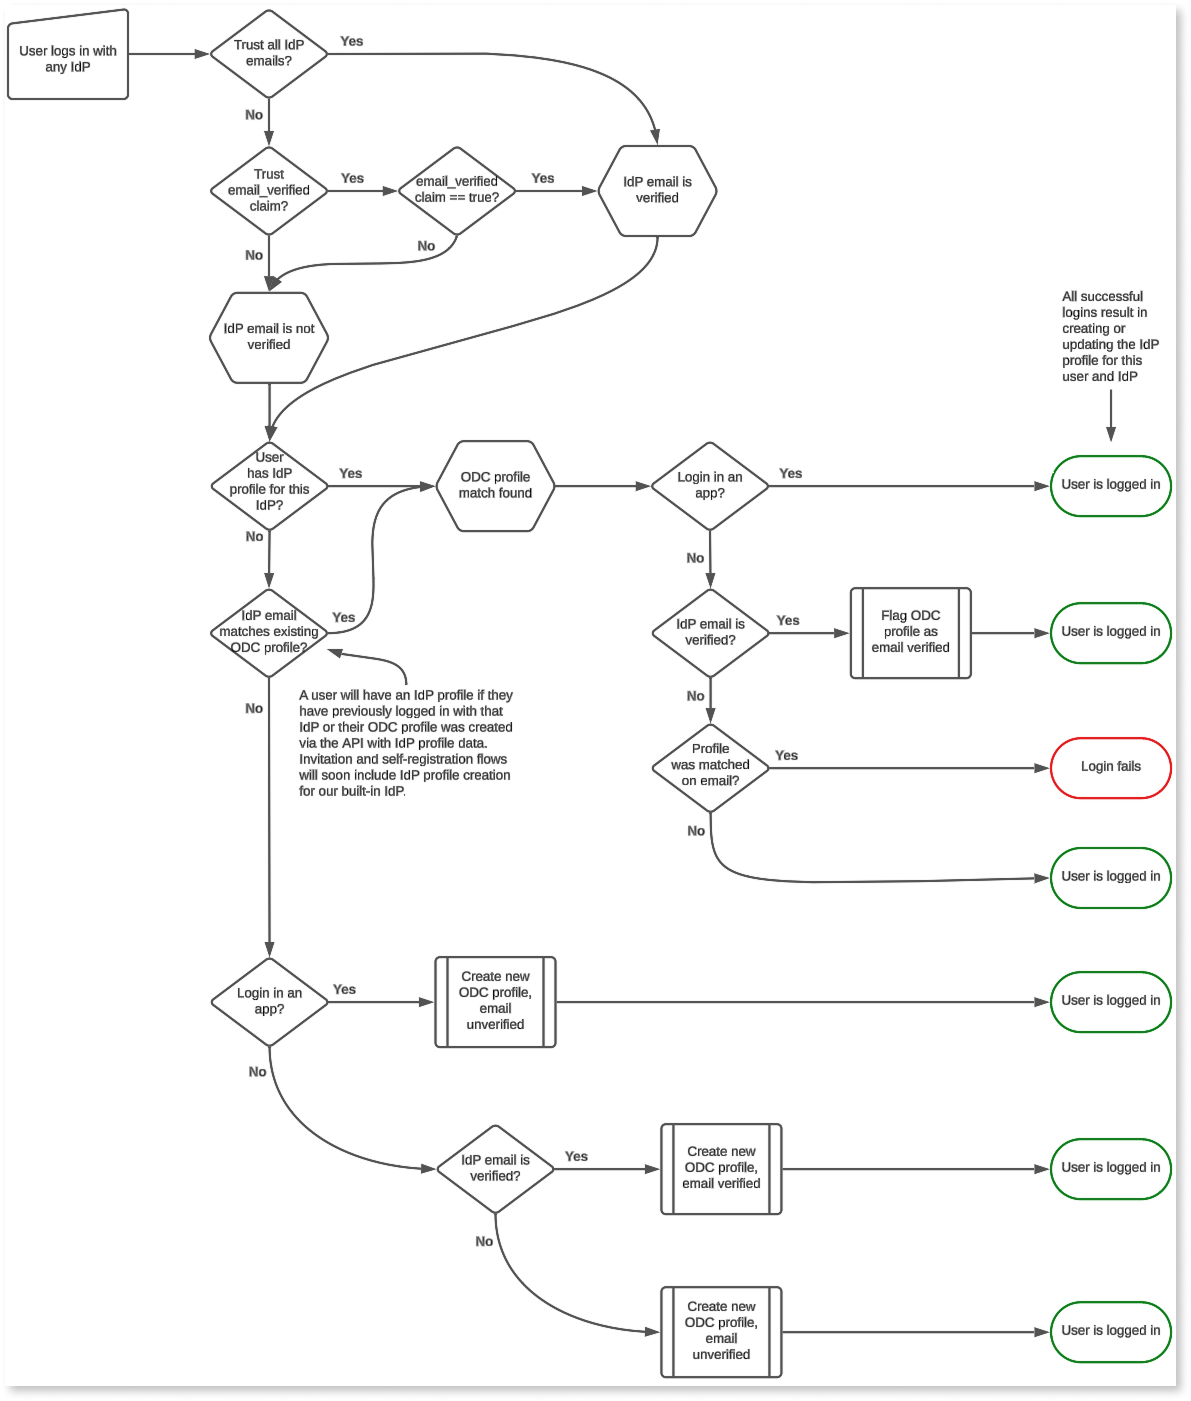
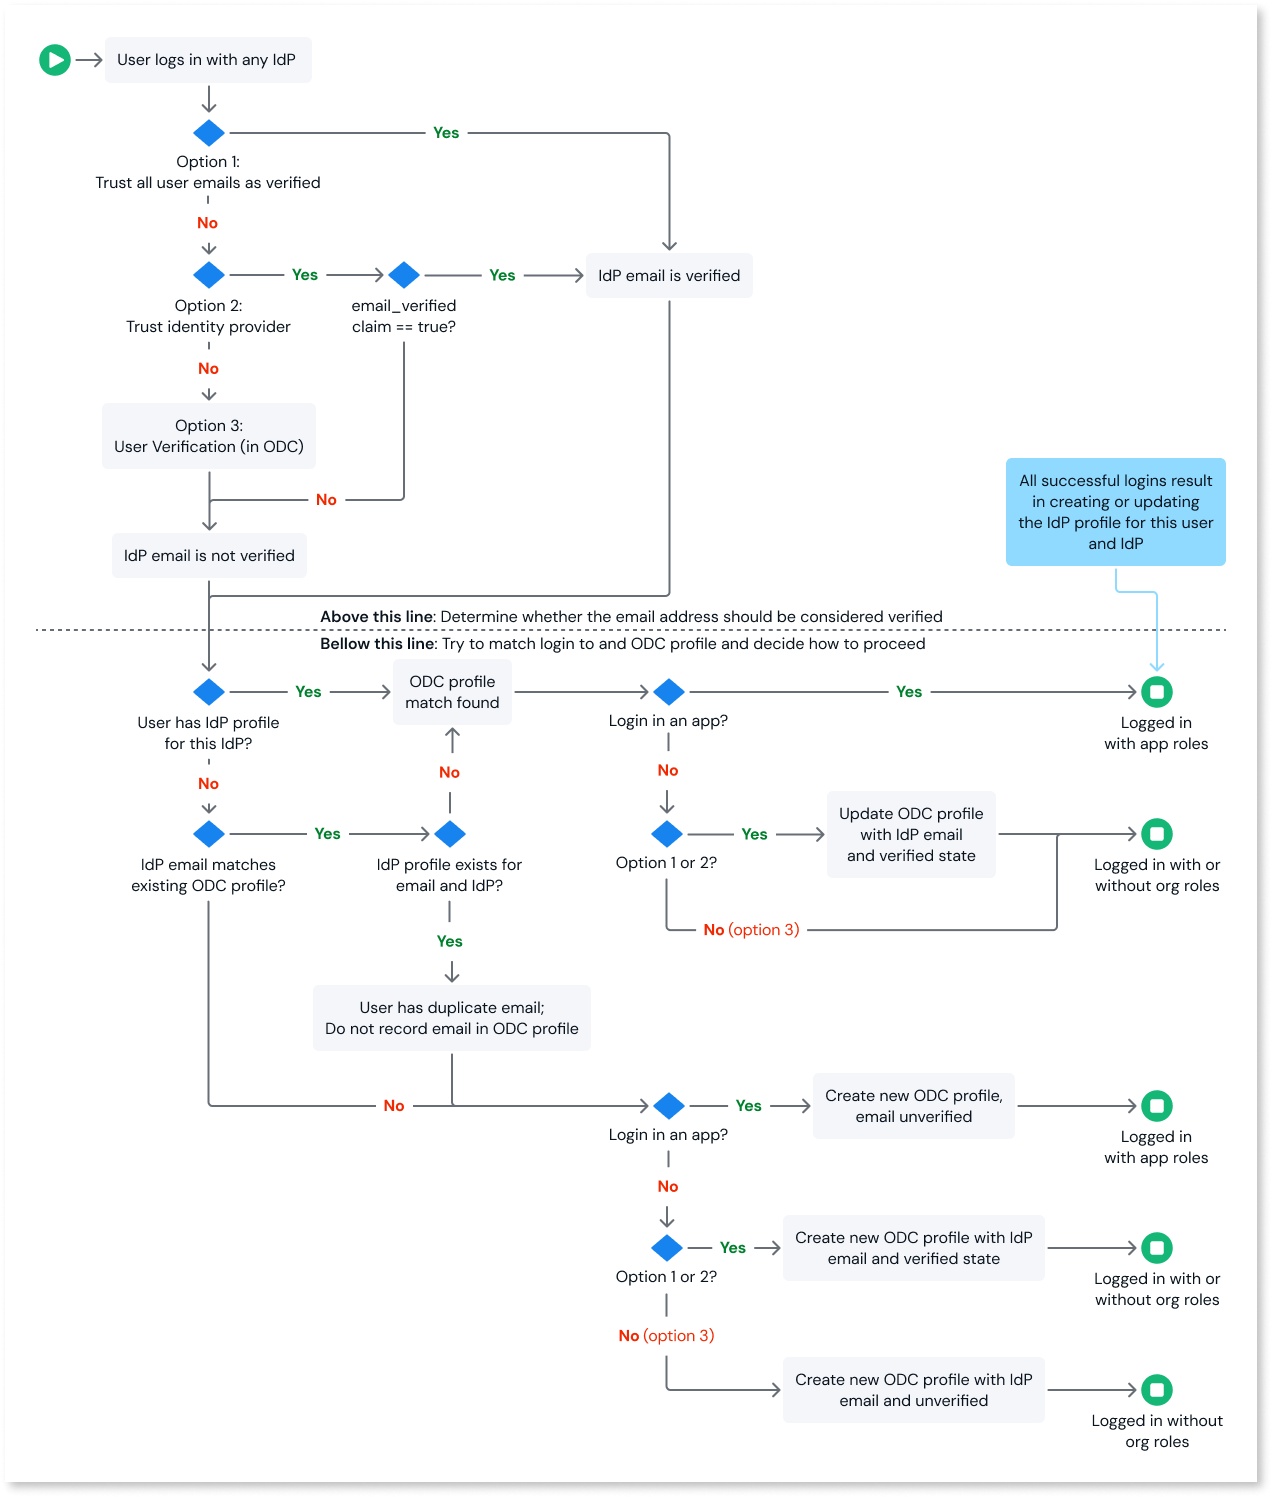
Update flowchart claim mapping  TK-18744

diff --git a/src/eap/manage-platform-app-lifecycle/external-idps/intro.md b/src/eap/manage-platform-app-lifecycle/external-idps/intro.md
@@ -248,10 +248,13 @@ If this is the user's first time logging in with this IdP, ODC creates both a ne
 
 ### Email verification logic
 
-The "IdP email is verified" check depends on the **Trust all user emails as verified** configuration in the ODC Portal that you set when you create an IdP.
+User emails are verified in the following ways:
 
-* **If `Trust all user emails as verified` is set to `Yes`:** The IdP email is considered verified regardless of any claims from the IdP.
-* **If `Trust all user emails as verified` is set to `No`:** ODC relies on the `email_verified` claim provided by the IdP. If the claim is `true`, the email is verified; otherwise, it is not.
+* **User verification** - ODC requires users to verify their email addresses by completing an email verification flow to confirm ownership.
+
+* **Trust identity provider** - ODC honors the `email_verified` claim from the identity provider. If the claim is missing or invalid, emails are considered unverified. Users with unverified email addresses must validate their email through the IdP.
+
+* **Trust all user emails as verified** - ODC considers all user emails from the IdP as verified.
 
 ## Avoid lockout scenarios { #lockout }
 
